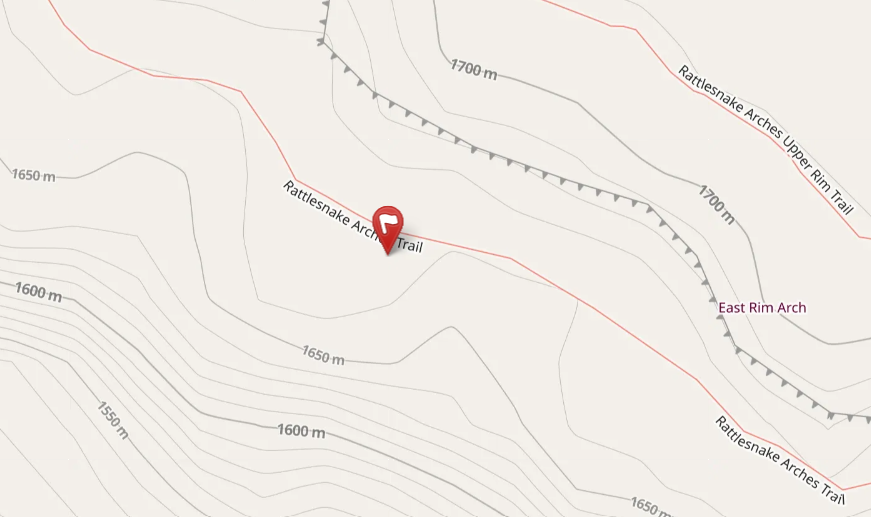
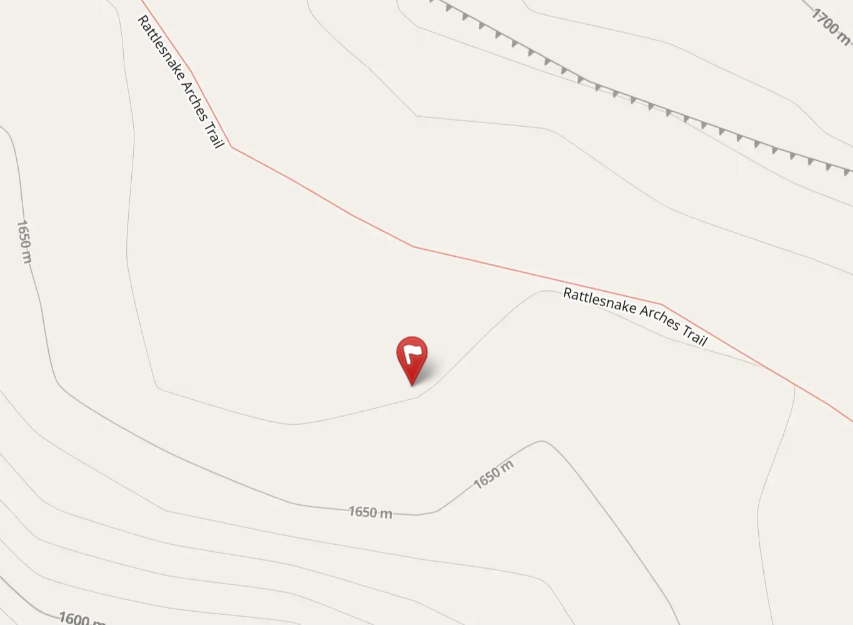
Built site for gh-pages

diff --git a/index.html b/index.html
@@ -253,46 +253,7 @@ window.Quarto = {
     </div>
 </div>
 <div class="list quarto-listing-default">
-<div class="quarto-post image-right" data-index="0" data-categories="ZnJ1aXRhJTJDcG9lbXMlMkNyYXR0bGVzbmFrZSUyMGFyY2hlcyUyQ1Ix" data-listing-date-sort="1774483200000" data-listing-file-modified-sort="1774564673177" data-listing-date-modified-sort="NaN" data-listing-reading-time-sort="2" data-listing-word-count-sort="225">
-<div class="thumbnail"><a href="./poems/cobra.html" class="no-external">
-
-<p class="card-img-top"><img loading='lazy' src="poems/images/r1_cobra_map_hint.png" style="height: 0;"  class="thumbnail-image card-img"/></p>
-
-</a></div>
-<div class="body">
-<h3 class="no-anchor listing-title">
-<a href="./poems/cobra.html" class="no-external">Cobra Canyon</a>
-</h3>
-<div class="listing-subtitle">
-<a href="./poems/cobra.html" class="no-external">R1 #2</a>
-</div>
-<div class="listing-categories">
-
-<div class="listing-category" onclick="window.quartoListingCategory('ZnJ1aXRh'); return false;">fruita</div>
-
-<div class="listing-category" onclick="window.quartoListingCategory('cG9lbXM='); return false;">poems</div>
-
-<div class="listing-category" onclick="window.quartoListingCategory('cmF0dGxlc25ha2UlMjBhcmNoZXM='); return false;">rattlesnake arches</div>
-
-<div class="listing-category" onclick="window.quartoListingCategory('UjE='); return false;">R1</div>
-
-</div>
-<div class="delink listing-description"><a href="./poems/cobra.html" class="no-external">
-<p>But I thought this was rattlesnake canyon?</p>
-</a></div>
-</div>
-<div class="metadata">
-<a href="./poems/cobra.html" class="no-external">
-<div class="listing-date">
-Mar 26, 2026
-</div>
-<div class="listing-author">
-Rudy
-</div>
-</a>
-</div>
-</div>
-<div class="quarto-post image-right" data-index="1" data-categories="ZnJ1aXRhJTJDcG9lbXMlMkNyYXR0bGVzbmFrZSUyMGFyY2hlcyUyQ1Ix" data-listing-date-sort="1774396800000" data-listing-file-modified-sort="1774564673177" data-listing-date-modified-sort="NaN" data-listing-reading-time-sort="2" data-listing-word-count-sort="266">
+<div class="quarto-post image-right" data-index="0" data-categories="ZnJ1aXRhJTJDcG9lbXMlMkNyYXR0bGVzbmFrZSUyMGFyY2hlcyUyQ1Ix" data-listing-date-sort="1774396800000" data-listing-file-modified-sort="1774649116047" data-listing-date-modified-sort="NaN" data-listing-reading-time-sort="2" data-listing-word-count-sort="267">
 <div class="thumbnail"><a href="./poems/eagle.html" class="no-external">
 
 <p class="card-img-top"><img loading='lazy' src="poems/images/r1_eagle_map_hint.png" style="height: 0;"  class="thumbnail-image card-img"/></p>
@@ -331,7 +292,46 @@ Rudy
 </a>
 </div>
 </div>
-<div class="quarto-post image-right" data-index="2" data-categories="ZnJ1aXRhJTJDcG9lbXMlMkNrb2RlbCdzJTIwY2FueW9uJTJDSzEy" data-listing-date-sort="1763856000000" data-listing-file-modified-sort="1774564673304" data-listing-date-modified-sort="NaN" data-listing-reading-time-sort="2" data-listing-word-count-sort="241">
+<div class="quarto-post image-right" data-index="1" data-categories="ZnJ1aXRhJTJDcG9lbXMlMkNyYXR0bGVzbmFrZSUyMGFyY2hlcyUyQ1Ix" data-listing-date-sort="1774310400000" data-listing-file-modified-sort="1774649116047" data-listing-date-modified-sort="NaN" data-listing-reading-time-sort="2" data-listing-word-count-sort="225">
+<div class="thumbnail"><a href="./poems/cobra.html" class="no-external">
+
+<p class="card-img-top"><img loading='lazy' src="poems/images/r1_cobra_map_hint.png" style="height: 0;"  class="thumbnail-image card-img"/></p>
+
+</a></div>
+<div class="body">
+<h3 class="no-anchor listing-title">
+<a href="./poems/cobra.html" class="no-external">Cobra Canyon</a>
+</h3>
+<div class="listing-subtitle">
+<a href="./poems/cobra.html" class="no-external">R1 #3</a>
+</div>
+<div class="listing-categories">
+
+<div class="listing-category" onclick="window.quartoListingCategory('ZnJ1aXRh'); return false;">fruita</div>
+
+<div class="listing-category" onclick="window.quartoListingCategory('cG9lbXM='); return false;">poems</div>
+
+<div class="listing-category" onclick="window.quartoListingCategory('cmF0dGxlc25ha2UlMjBhcmNoZXM='); return false;">rattlesnake arches</div>
+
+<div class="listing-category" onclick="window.quartoListingCategory('UjE='); return false;">R1</div>
+
+</div>
+<div class="delink listing-description"><a href="./poems/cobra.html" class="no-external">
+<p>But I thought this was rattlesnake canyon?</p>
+</a></div>
+</div>
+<div class="metadata">
+<a href="./poems/cobra.html" class="no-external">
+<div class="listing-date">
+Mar 24, 2026
+</div>
+<div class="listing-author">
+Rudy
+</div>
+</a>
+</div>
+</div>
+<div class="quarto-post image-right" data-index="2" data-categories="ZnJ1aXRhJTJDcG9lbXMlMkNrb2RlbCdzJTIwY2FueW9uJTJDSzEy" data-listing-date-sort="1763856000000" data-listing-file-modified-sort="1774649116171" data-listing-date-modified-sort="NaN" data-listing-reading-time-sort="2" data-listing-word-count-sort="241">
 <div class="thumbnail"><a href="./poems/timeless-lookout.html" class="no-external">
 
 <p class="card-img-top"><img loading='lazy' src="poems/images/k12_eyes_map_hint.png" style="height: 0;"  class="thumbnail-image card-img"/></p>
@@ -370,7 +370,7 @@ Rudy
 </a>
 </div>
 </div>
[2 lines of base64/hex data omitted]
 <div class="thumbnail"><a href="./poems/elephant-seal.html" class="no-external">
 
 <p class="card-img-top"><img loading='lazy' src="poems/images/monument_seal_map_hint.png" style="height: 0;"  class="thumbnail-image card-img"/></p>
@@ -409,7 +409,7 @@ Rudy
 </a>
 </div>
 </div>
-<div class="quarto-post image-right" data-index="4" data-categories="ZnJ1aXRhJTJDcG9lbXMlMkNmbHVtZSUyMGNhbnlvbiUyQ0Yx" data-listing-date-sort="1759017600000" data-listing-file-modified-sort="1774564673177" data-listing-date-modified-sort="NaN" data-listing-reading-time-sort="2" data-listing-word-count-sort="249">
+<div class="quarto-post image-right" data-index="4" data-categories="ZnJ1aXRhJTJDcG9lbXMlMkNmbHVtZSUyMGNhbnlvbiUyQ0Yx" data-listing-date-sort="1759017600000" data-listing-file-modified-sort="1774649116047" data-listing-date-modified-sort="NaN" data-listing-reading-time-sort="2" data-listing-word-count-sort="246">
 <div class="thumbnail"><a href="./poems/desert-shipwreck.html" class="no-external">
 
 <p class="card-img-top"><img loading='lazy' src="poems/images/f1_shipwreck_map_hint.png" style="height: 0;"  class="thumbnail-image card-img"/></p>
@@ -448,7 +448,7 @@ Rudy
 </a>
 </div>
 </div>
-<div class="quarto-post image-right" data-index="5" data-categories="ZnJ1aXRhJTJDcG9lbXMlMkNmbHVtZSUyMGNhbnlvbiUyQ0Yx" data-listing-date-sort="1758326400000" data-listing-file-modified-sort="1774564673177" data-listing-date-modified-sort="NaN" data-listing-reading-time-sort="2" data-listing-word-count-sort="233">
+<div class="quarto-post image-right" data-index="5" data-categories="ZnJ1aXRhJTJDcG9lbXMlMkNmbHVtZSUyMGNhbnlvbiUyQ0Yx" data-listing-date-sort="1758326400000" data-listing-file-modified-sort="1774649116047" data-listing-date-modified-sort="NaN" data-listing-reading-time-sort="2" data-listing-word-count-sort="233">
 <div class="thumbnail"><a href="./poems/guardian-of-the-flume.html" class="no-external">
 
 <p class="card-img-top"><img loading='lazy' src="poems/images/f1_guardian_map_hint.png" style="height: 0;"  class="thumbnail-image card-img"/></p>
@@ -487,7 +487,7 @@ Rudy
 </a>
 </div>
 </div>
-<div class="quarto-post image-right" data-index="6" data-categories="ZnJ1aXRhJTJDcG9lbXMlMkNmbHVtZSUyMGNhbnlvbiUyQ0Yx" data-listing-date-sort="1757980800000" data-listing-file-modified-sort="1774564673304" data-listing-date-modified-sort="NaN" data-listing-reading-time-sort="2" data-listing-word-count-sort="231">
+<div class="quarto-post image-right" data-index="6" data-categories="ZnJ1aXRhJTJDcG9lbXMlMkNmbHVtZSUyMGNhbnlvbiUyQ0Yx" data-listing-date-sort="1757980800000" data-listing-file-modified-sort="1774649116171" data-listing-date-modified-sort="NaN" data-listing-reading-time-sort="2" data-listing-word-count-sort="231">
 <div class="thumbnail"><a href="./poems/patina-portrait.html" class="no-external">
 
 <p class="card-img-top"><img loading='lazy' src="poems/images/f1_portrait_map_hint.png" style="height: 0;"  class="thumbnail-image card-img"/></p>
@@ -526,7 +526,7 @@ Rudy
 </a>
 </div>
 </div>
-<div class="quarto-post image-right" data-index="7" data-categories="ZnJ1aXRhJTJDcG9lbXMlMkNkZXZpbCdzJTIwY2FueW9uJTJDRDQ=" data-listing-date-sort="1757808000000" data-listing-file-modified-sort="1774564673176" data-listing-date-modified-sort="NaN" data-listing-reading-time-sort="2" data-listing-word-count-sort="225">
+<div class="quarto-post image-right" data-index="7" data-categories="ZnJ1aXRhJTJDcG9lbXMlMkNkZXZpbCdzJTIwY2FueW9uJTJDRDQ=" data-listing-date-sort="1757808000000" data-listing-file-modified-sort="1774649116046" data-listing-date-modified-sort="NaN" data-listing-reading-time-sort="2" data-listing-word-count-sort="225">
 <div class="thumbnail"><a href="./poems/canyon-secret-grin.html" class="no-external">
 
 <p class="card-img-top"><img loading='lazy' src="poems/images/d4_grin_map_hint.png" style="height: 0;"  class="thumbnail-image card-img"/></p>
@@ -565,7 +565,7 @@ Rudy
 </a>
 </div>
 </div>
-<div class="quarto-post image-right" data-index="8" data-categories="ZnJ1aXRhJTJDcG9lbXMlMkNkZXZpbCdzJTIwY2FueW9uJTJDRDQ=" data-listing-date-sort="1757808000000" data-listing-file-modified-sort="1774564673177" data-listing-date-modified-sort="NaN" data-listing-reading-time-sort="2" data-listing-word-count-sort="255">
+<div class="quarto-post image-right" data-index="8" data-categories="ZnJ1aXRhJTJDcG9lbXMlMkNkZXZpbCdzJTIwY2FueW9uJTJDRDQ=" data-listing-date-sort="1757808000000" data-listing-file-modified-sort="1774649116047" data-listing-date-modified-sort="NaN" data-listing-reading-time-sort="2" data-listing-word-count-sort="255">
 <div class="thumbnail"><a href="./poems/dapper-duck.html" class="no-external">
 
 <p class="card-img-top"><img loading='lazy' src="poems/images/d4_duck_map_hint.png" style="height: 0;"  class="thumbnail-image card-img"/></p>
@@ -604,7 +604,7 @@ Rudy
 </a>
 </div>
 </div>
-<div class="quarto-post image-right" data-index="9" data-categories="ZnJ1aXRhJTJDcG9lbXMlMkNkZXZpbCdzJTIwY2FueW9uJTJDRDQ=" data-listing-date-sort="1757808000000" data-listing-file-modified-sort="1774564673304" data-listing-date-modified-sort="NaN" data-listing-reading-time-sort="2" data-listing-word-count-sort="240">
+<div class="quarto-post image-right" data-index="9" data-categories="ZnJ1aXRhJTJDcG9lbXMlMkNkZXZpbCdzJTIwY2FueW9uJTJDRDQ=" data-listing-date-sort="1757808000000" data-listing-file-modified-sort="1774649116171" data-listing-date-modified-sort="NaN" data-listing-reading-time-sort="2" data-listing-word-count-sort="240">
 <div class="thumbnail"><a href="./poems/red-rock-fury.html" class="no-external">
 
 <p class="card-img-top"><img loading='lazy' src="poems/images/d4_fury_map_hint.png" style="height: 0;"  class="thumbnail-image card-img"/></p>

diff --git a/poems/cobra.html b/poems/cobra.html
@@ -7,7 +7,7 @@
 <meta name="viewport" content="width=device-width, initial-scale=1.0, user-scalable=yes">
 
 <meta name="author" content="Rudy">
-<meta name="dcterms.date" content="2026-03-26">
+<meta name="dcterms.date" content="2026-03-24">
 <meta name="description" content="But I thought this was rattlesnake canyon?">
 
 <title>Cobra Canyon – Sandstone Sonnets</title>
@@ -129,7 +129,7 @@ ul.task-list li input[type="checkbox"] {
 <header id="title-block-header" class="quarto-title-block default">
 <div class="quarto-title">
 <h1 class="title">Cobra Canyon</h1>
-<p class="subtitle lead">R1 #2</p>
+<p class="subtitle lead">R1 #3</p>
   <div class="quarto-categories">
     <div class="quarto-category">fruita</div>
     <div class="quarto-category">poems</div>
@@ -157,7 +157,7 @@ ul.task-list li input[type="checkbox"] {
     <div>
     <div class="quarto-title-meta-heading">Published</div>
     <div class="quarto-title-meta-contents">
-      <p class="date">March 26, 2026</p>
+      <p class="date">March 24, 2026</p>
     </div>
   </div>
   
@@ -257,10 +257,10 @@ Just ancient grains of sand, unsung.</p>
 </div>
 <div class="callout-body-container">
 <p><a href="images/r1_cobra_answer_annotated.jpg"><img src="images/r1_cobra_answer_annotated.jpg" class="img-fluid"></a></p>
-<p>GPS coordinates of this photo: 39.14455, -108.84978</p>
+<p>GPS coordinates of this photo: 39.14444, -108.84980</p>
 <div class="quarto-figure quarto-figure-center">
 <figure class="figure">
-<p><a href="https://www.openstreetmap.org/directions?from=&amp;to=39.144605%2C-108.849766#map=19/39.144698/-108.850007&amp;layers=P"><img src="images/r1_cobra_map.png" class="img-fluid figure-img"></a></p>
+<p><a href="https://www.openstreetmap.org/directions?to=39.14444%2C+-108.84980#map=19/39.144453/-108.849656&amp;layers=P"><img src="images/r1_cobra_map.png" class="img-fluid figure-img"></a></p>
 <figcaption>Click for interactive map</figcaption>
 </figure>
 </div>

diff --git a/poems/desert-shipwreck.html b/poems/desert-shipwreck.html
@@ -257,10 +257,10 @@ A whale sunk that ship right here!</p>
 </div>
 <div class="callout-body-container">
 <p><a href="images/f1_shipwreck_answer_annotated.jpg"><img src="images/f1_shipwreck_answer_annotated.jpg" class="img-fluid"></a></p>
-<p>GPS coordinates of this photo: NEED TO CONFIRM 39.151625, -108.781861</p>
+<p>GPS coordinates of this photo: 39.15177, -108.78165</p>
 <div class="quarto-figure quarto-figure-center">
 <figure class="figure">
-<p><a href="https://www.openstreetmap.org/?mlat=39.151625&amp;mlon=-108.781861&amp;zoom=19"><img src="images/f1_shipwreck_map.png" class="img-fluid figure-img"></a></p>
+<p><a href="https://www.openstreetmap.org/?mlat=39.15177&amp;mlon=-108.78165&amp;zoom=19"><img src="images/f1_shipwreck_map.png" class="img-fluid figure-img"></a></p>
 <figcaption>Click for interactive map</figcaption>
 </figure>
 </div>

diff --git a/poems/eagle.html b/poems/eagle.html
@@ -176,7 +176,7 @@ Silent and stoic, distinct and proud.</p>
 <p>But look at that neck! It’s a ring made of light,<br>
 Pure snowy stone shining dazzlingly bright.<br>
 A collar of white, like a scarf she has worn,<br>
-Since the first stars of the galaxy were born.</p>
+Since the stars of the galaxy were very first born.</p>
 <p>She scans for a meal with a hunter’s glare,<br>
 But with a tummy of rock she eats only air.<br>
 She wants to take off and to soar in the view,<br>
